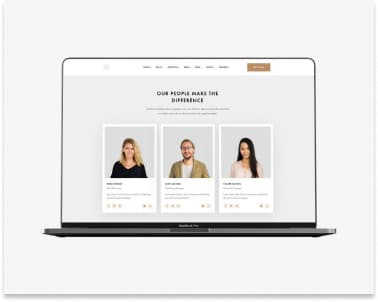
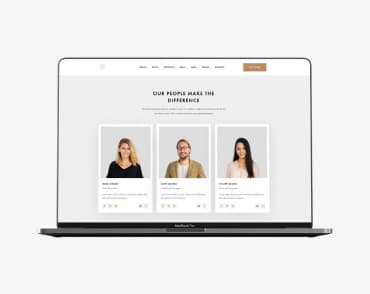
попрвил имаги в портфолио

diff --git a/portfolio.html b/portfolio.html
@@ -67,6 +67,7 @@
                 <a class="link" href="">
                   <div class="card-thumb">
                     <img
+                      class="card-image"
                       src="./images/portfolio/img1.jpg"
                       alt="фотографии людей на экране ноутбука"
                       width="370"
@@ -92,6 +93,7 @@
                 <a class="link" href="">
                   <div class="card-thumb">
                     <img
+                      class="card-image"
                       src="./images/portfolio/img2.jpg"
                       alt="два баскетболиста"
                       width="370"
@@ -119,6 +121,7 @@
                 <a class="link" href="">
                   <div class="card-thumb">
                     <img
+                      class="card-image"
                       src="./images/portfolio/img3.jpg"
                       alt="логотип ресторана"
                       width="370"
@@ -144,6 +147,7 @@
                 <a class="link" href="">
                   <div class="card-thumb">
                     <img
+                      class="card-image"
                       src="./images/portfolio/img4.jpg"
                       alt="наушники"
                       width="370"
@@ -169,6 +173,7 @@
                 <a class="link" href="">
                   <div class="card-thumb">
                     <img
+                      class="card-image"
                       src="./images/portfolio/img5.jpg"
                       alt="две коробки"
                       width="370"
@@ -194,6 +199,7 @@
                 <a class="link" href="">
                   <div class="card-thumb">
                     <img
+                      class="card-image"
                       src="./images/portfolio/img6.jpg"
                       alt="монитор компьютера"
                       width="370"
@@ -219,6 +225,7 @@
                 <a class="link" href="">
                   <div class="card-thumb">
                     <img
+                      class="card-image"
                       src="./images/portfolio/img7.jpg"
                       alt="открытая книга"
                       width="370"
@@ -244,6 +251,7 @@
                 <a class="link" href="">
                   <div class="card-thumb">
                     <img
+                      class="card-image"
                       src="./images/portfolio/img8.jpg"
                       alt="ярлык на нитке"
                       width="370"
@@ -269,6 +277,7 @@
                 <a class="link" href="">
                   <div class="card-thumb">
                     <img
+                      class="card-image"
                       src="./images/portfolio/img9.jpg"
                       alt="человек работющий за ноутбуком"
                       width="370"

diff --git a/css/styles.css b/css/styles.css
@@ -450,6 +450,11 @@ address .location {
   border-left: 1px solid var(--card-border-color);
 }
 
+.card-image {
+  display: block;
+  width: 100%;
+}
+
 .card-content {
   padding: 20px 24px;
   border-right: 1px solid var(--card-border-color);
